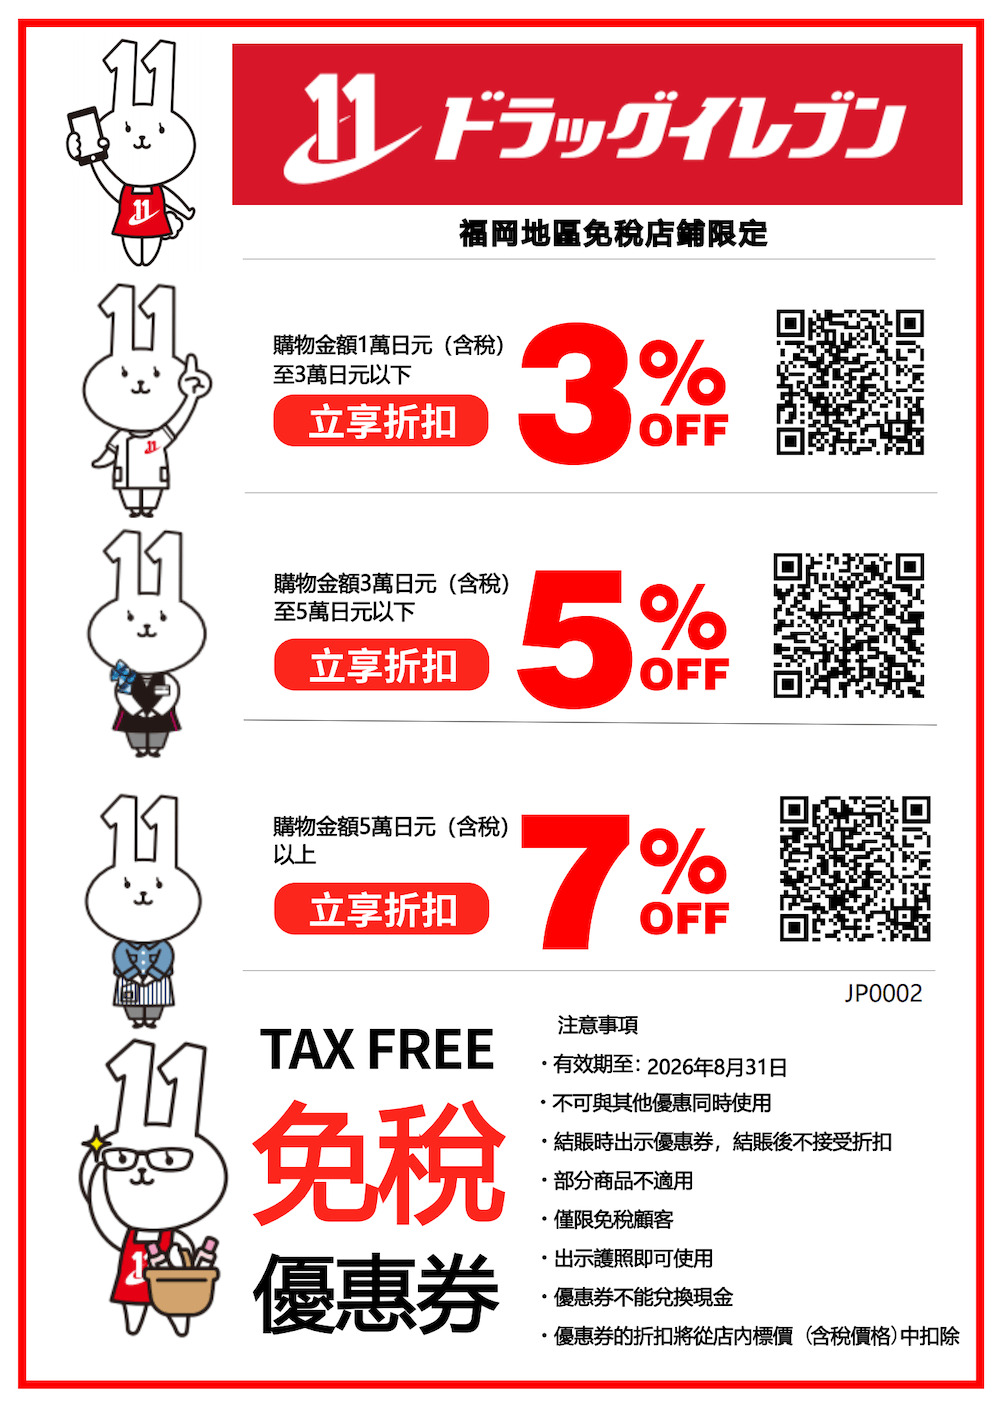
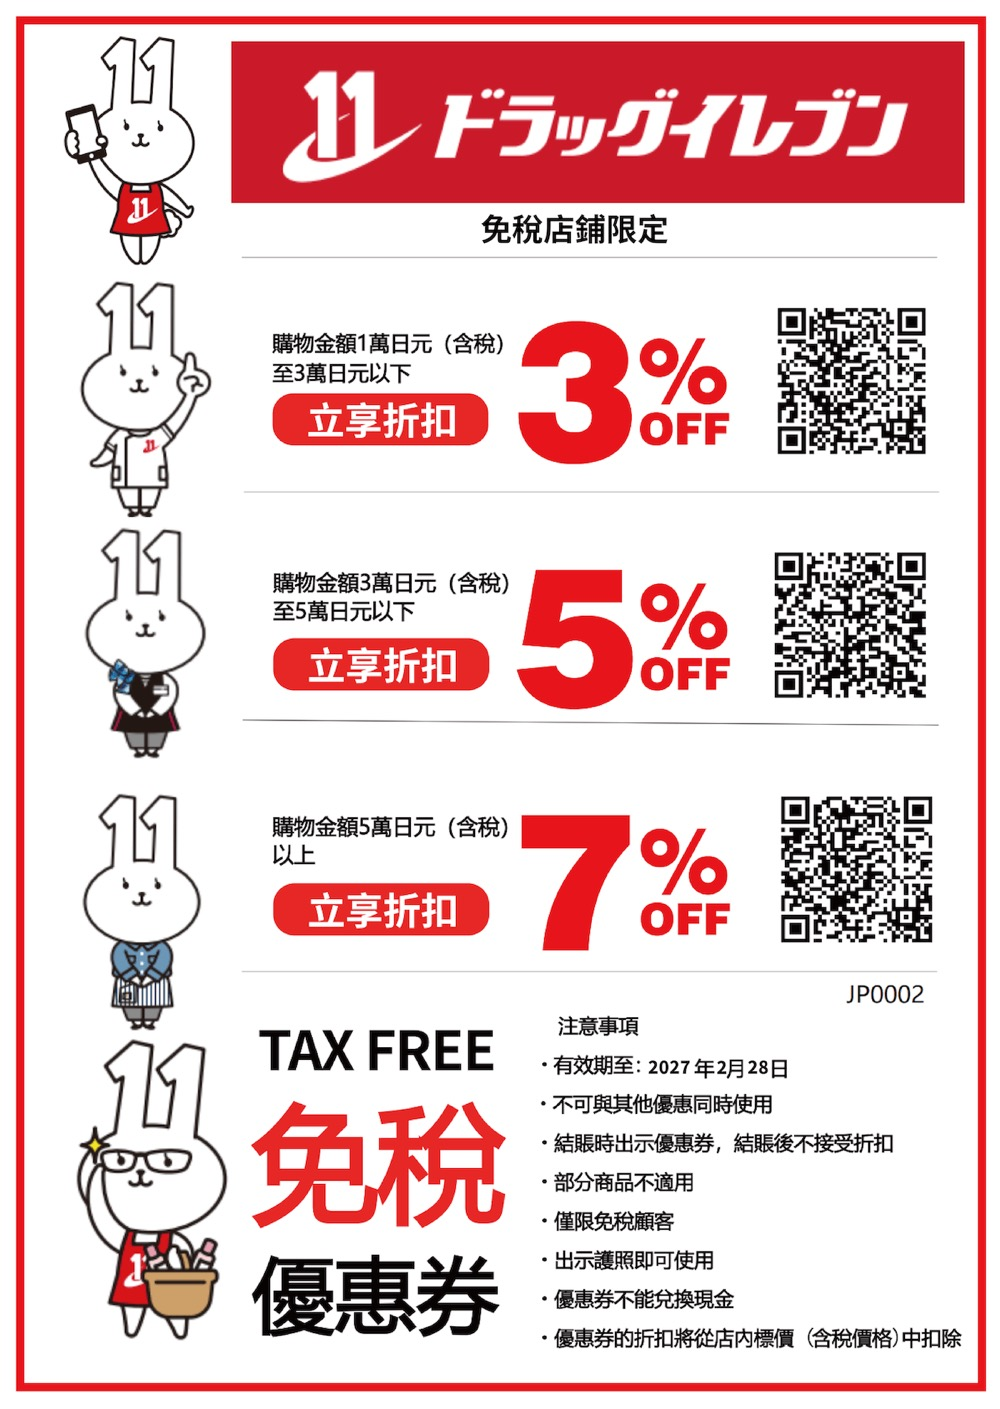
Coupon: update Drug Eleven coupon image and extend deadline to 2027/02/28
New design drops the Fukuoka-only restriction and extends the offer period.

diff --git a/coupon/elevendrug/index.html b/coupon/elevendrug/index.html
@@ -33,7 +33,7 @@
     "price": "0",
     "priceCurrency": "JPY",
     "availability": "https://schema.org/InStock",
-    "validThrough": "2026-08-31",
+    "validThrough": "2027-02-28",
     "description": "83折"
   }
 }
@@ -315,7 +315,7 @@
         <h1>Drug Eleven 優惠券｜滿1萬日圓免稅10%再97折，滿3萬日圓95折，滿5萬日圓93折</h1>
         <p>滿1萬日圓免稅10%再97折，滿3萬日圓95折，滿5萬日圓93折</p>
         <p>折扣資訊：83折</p>
-        <p>優惠截止：2026-08-31</p>
+        <p>優惠截止：2027-02-28</p>
     </div>
     <script>
         (function(){
